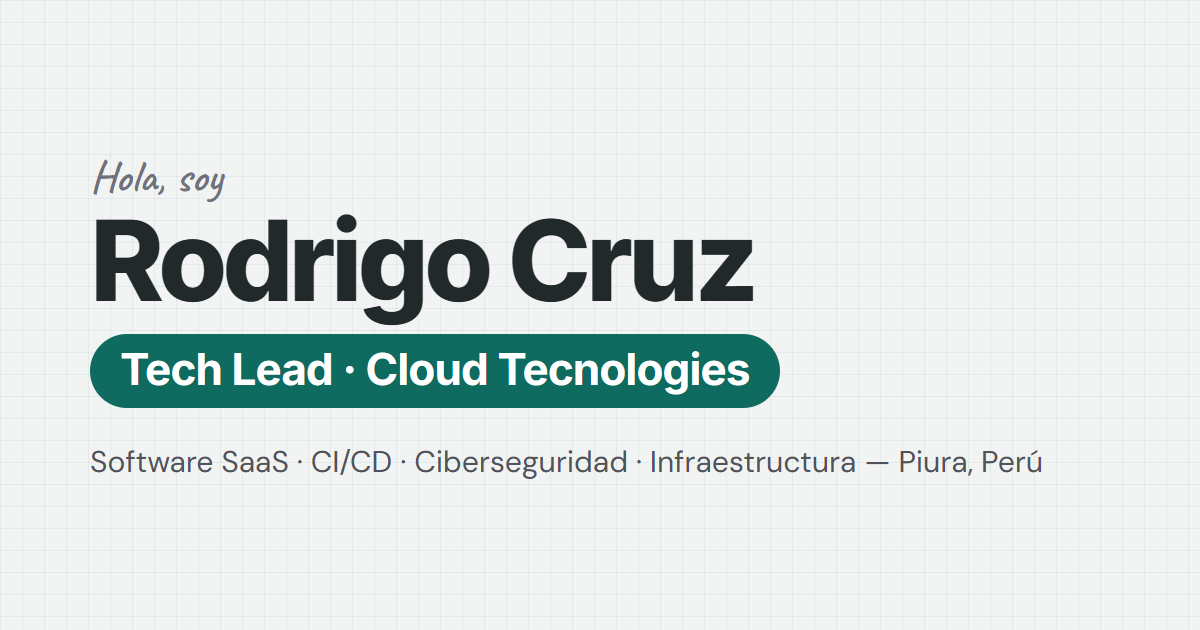
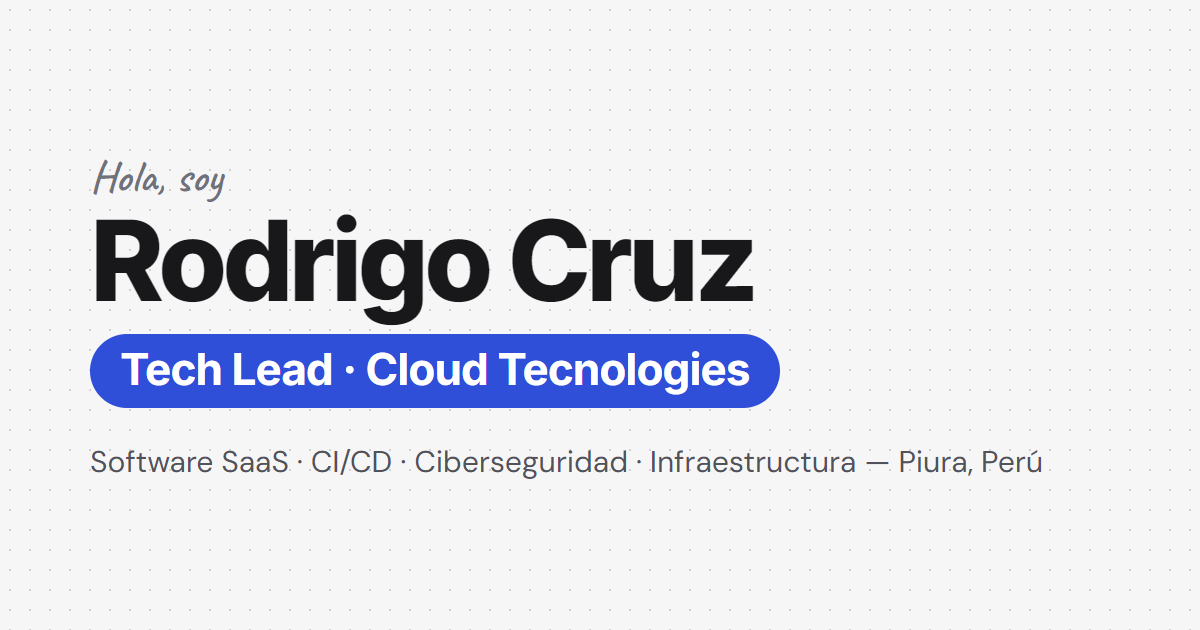
Tema grafito y cobalto, y capturas de NISTrack y Termómetro
- Paleta azul cobalto con fondo de puntos (curva, marcos, favicon y og.png).
- Capturas reales en src/assets/projects/ (nistrack.webp, termometro.webp).

Changed region(s): [[0.0617, 0.5127, 0.6475, 0.6635]]

diff --git a/src/content.js b/src/content.js
@@ -39,10 +39,10 @@ export const skills = [
 // `tint`: color de fondo del marco de la captura.
 // Los textos de cada caso están en content.<idioma>.projects.items.<key>.
 export const projects = [
-  { key: 'nistrack', name: 'NISTrack', image: 'nistrack', art: 'deploy', tags: ['SaaS multitenant|Multi-tenant SaaS', 'NIST CSF 2.0', 'ISO 27001', 'GitHub Actions', 'GitFlow'], tabs: ['software', 'security'], tint: '#dbe7e3' },
-  { key: 'termometro', name: 'Termómetro de Resiliencia|Resilience Thermometer', image: 'termometro', art: 'termometro', tags: ['Continuidad operativa|Business continuity', 'Gestión de riesgos|Risk management'], tabs: ['software', 'security'], tint: '#e4e2d8' },
-  { key: 'keptai', name: 'KeptAI', image: 'keptai', art: 'keptai', year: '2026', tags: ['React', 'TypeScript', 'Spring Boot', 'PostgreSQL'], tabs: ['software'], tint: '#dde4ee' },
-  { key: 'iestp', name: 'Infraestructura IESTP|IESTP infrastructure', image: 'iestp', art: 'network', tags: ['Huawei OceanStor Dorado 3000 V6', 'Switching', 'Microsoft Visio'], tabs: ['infra'], tint: '#e6e1e8' },
+  { key: 'nistrack', name: 'NISTrack', image: 'nistrack', art: 'deploy', tags: ['SaaS multitenant|Multi-tenant SaaS', 'NIST CSF 2.0', 'ISO 27001', 'GitHub Actions', 'GitFlow'], tabs: ['software', 'security'], tint: '#dfe3f1' },
+  { key: 'termometro', name: 'Termómetro de Resiliencia|Resilience Thermometer', image: 'termometro', art: 'termometro', tags: ['Continuidad operativa|Business continuity', 'Gestión de riesgos|Risk management'], tabs: ['software', 'security'], tint: '#e7e5e2' },
+  { key: 'keptai', name: 'KeptAI', image: 'keptai', art: 'keptai', year: '2026', tags: ['React', 'TypeScript', 'Spring Boot', 'PostgreSQL'], tabs: ['software'], tint: '#dde6ee' },
+  { key: 'iestp', name: 'Infraestructura IESTP|IESTP infrastructure', image: 'iestp', art: 'network', tags: ['Huawei OceanStor Dorado 3000 V6', 'Switching', 'Microsoft Visio'], tabs: ['infra'], tint: '#e4e2ea' },
 ]
 
 // Muro del inicio: 4 columnas de piezas.

diff --git a/src/index.css b/src/index.css
@@ -1,10 +1,10 @@
 @import "tailwindcss";
 @config "../tailwind.config.js";
 @theme {
-  --color-paper: #f2f4f3;
-  --color-ink: #22292b;
-  --color-rust: #0f6b5f;   /* acento: verde azulado */
-  --color-leaf: #2f6fd6;   /* secundario: azul */
+  --color-paper: #f6f6f7;
+  --color-ink: #18181b;
+  --color-rust: #2f4fd8;   /* acento: azul cobalto */
+  --color-leaf: #0f766e;   /* secundario: verde azulado */
 }
 @layer base {
   :root { color-scheme: light; font-synthesis: none; text-rendering: optimizeLegibility; -webkit-font-smoothing: antialiased; -moz-osx-font-smoothing: grayscale; }
@@ -12,8 +12,8 @@
   html, body { overflow-x: clip; }
   body {
     @apply m-0 min-w-[320px] bg-paper font-sans text-ink;
-    background-image: linear-gradient(rgba(15, 80, 72, 0.06) 1px, transparent 1px), linear-gradient(90deg, rgba(15, 80, 72, 0.06) 1px, transparent 1px);
-    background-size: 22px 22px;
+    background-image: radial-gradient(rgba(24, 24, 27, 0.16) 1px, transparent 1.3px);
+    background-size: 20px 20px;
   }
   ::selection { @apply bg-rust text-white; }
   a:focus-visible, button:focus-visible { @apply rounded outline-2 outline-offset-4 outline-rust; }

diff --git a/index.html b/index.html
@@ -4,7 +4,7 @@
     <meta charset="UTF-8" />
     <link rel="icon" type="image/svg+xml" href="/favicon.svg" />
     <meta name="viewport" content="width=device-width, initial-scale=1.0" />
-    <meta name="theme-color" content="#f2f4f3" />
+    <meta name="theme-color" content="#f6f6f7" />
     <meta name="description" content="Portafolio de Rodrigo Cruz, Tech Lead en Cloud Tecnologies y estudiante de Ingeniería de Sistemas e Informática en Piura, Perú. Software SaaS, CI/CD, ciberseguridad e infraestructura." />
     <meta property="og:type" content="website" />
     <meta property="og:title" content="Rodrigo Cruz | Tech Lead · Software, ciberseguridad e infraestructura" />

diff --git a/src/pages/Home.jsx b/src/pages/Home.jsx
@@ -8,7 +8,7 @@ import { Link, Rich } from '../components/Core.jsx'
 import { Burst, CodeArt, DashedArrow, Doodle, Eyes, SparkLines, SparkStar, Squiggle } from '../components/Decor.jsx'
 
 // Colores de la curva (los mismos que --color-rust y --color-leaf en index.css).
-const ACCENT = '#0f6b5f', LEAF = '#2f6fd6'
+const ACCENT = '#2f4fd8', LEAF = '#0f766e'
 
 // Vuelo del mazo, en alturas de ventana de scroll:
 // 0 → RISE_END: el mazo sube y se abre en abanico.
